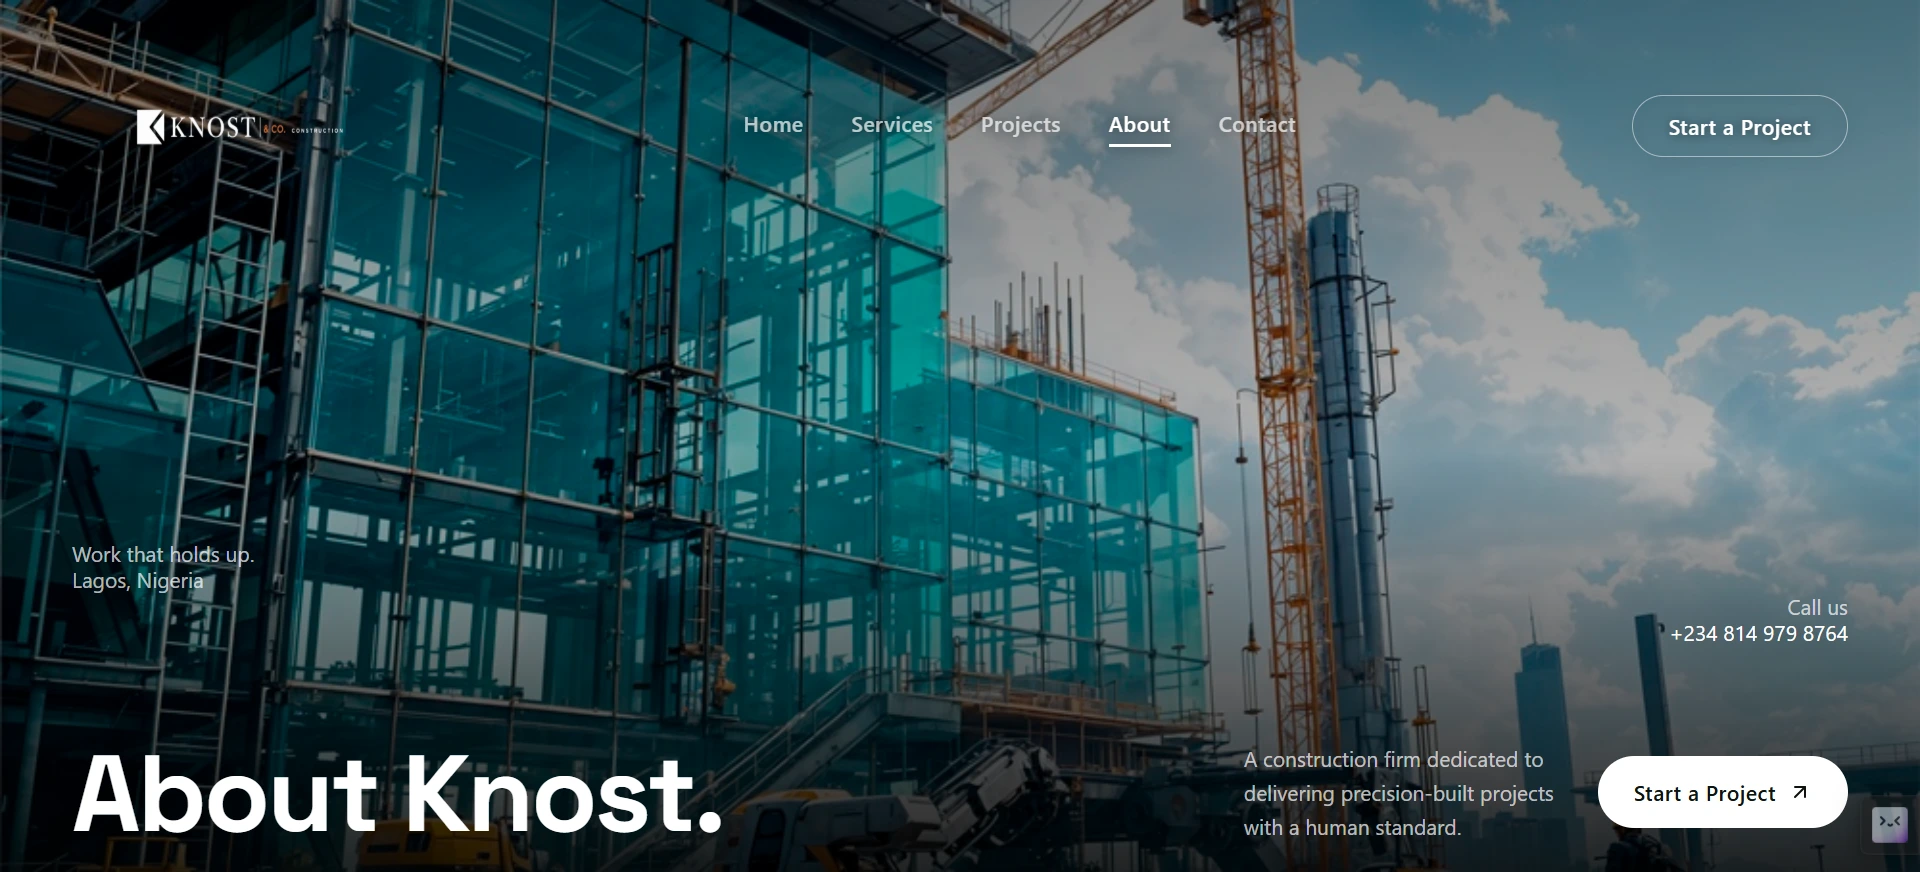
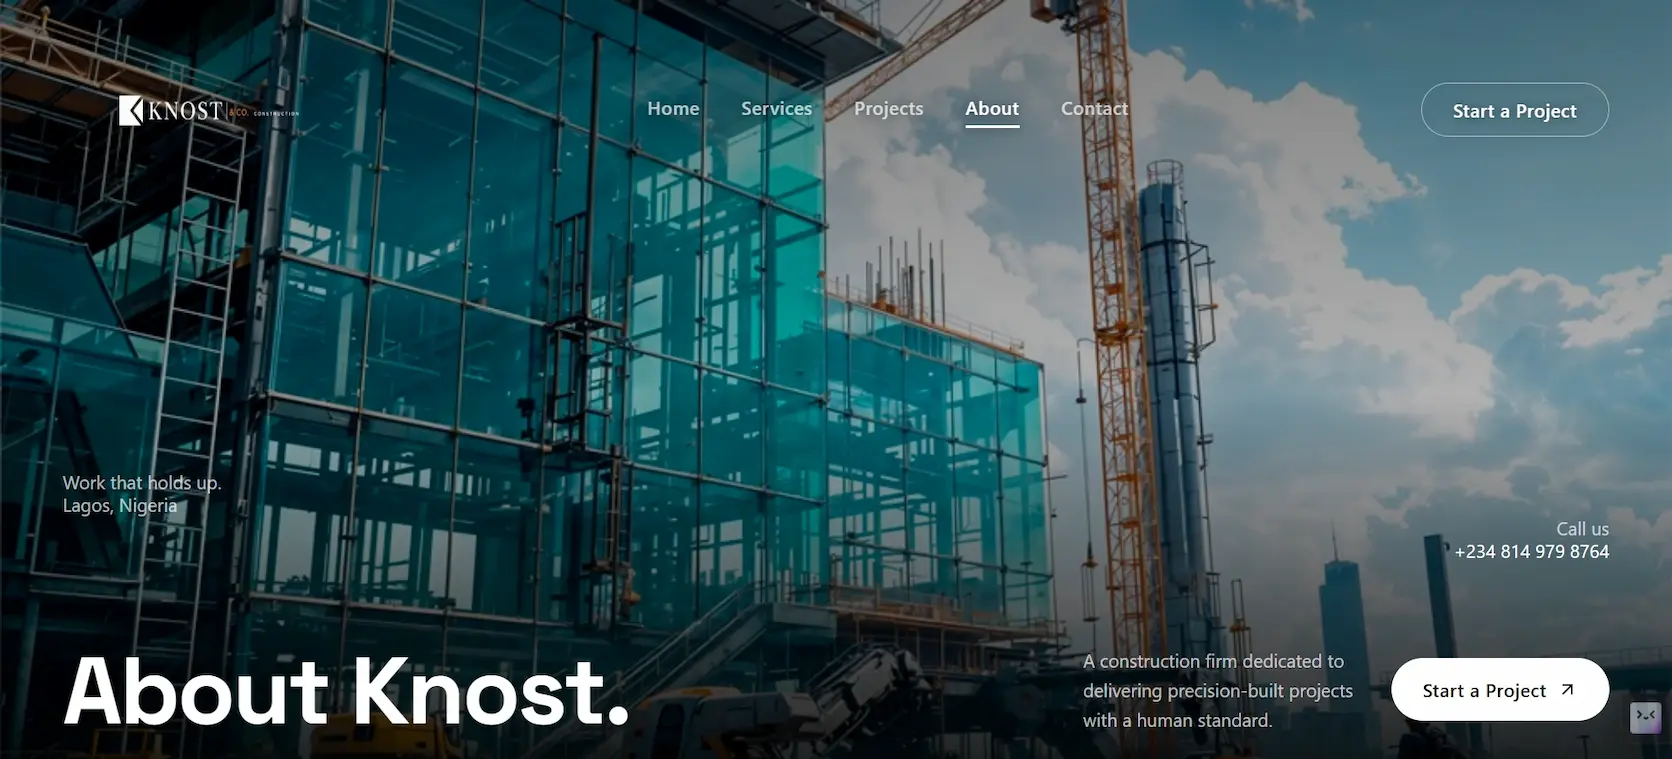
feat: accesibility and speed testing plus configuration for effective user experience

diff --git a/src/components/Navbar.tsx b/src/components/Navbar.tsx
@@ -1,4 +1,4 @@
-import { useEffect, useState } from "react";
+import { useEffect, useState, useRef } from "react";
 import { Link } from "react-router-dom";
 import { Menu, X } from "lucide-react";
 import { Container } from "./Container";
@@ -10,6 +10,8 @@ import { cn } from "../lib/cn";
 export function Navbar() {
   const [scrolled, setScrolled] = useState(false);
   const [open, setOpen] = useState(false);
+  const menuButtonRef = useRef<HTMLButtonElement>(null);
+  const firstLinkRef = useRef<HTMLAnchorElement>(null);
 
   useEffect(() => {
     const onScroll = () => setScrolled(window.scrollY > 8);
@@ -20,14 +22,23 @@ export function Navbar() {
 
   useEffect(() => {
     if (!open) return;
+
+    const behind = document.querySelectorAll("main, footer");
+    behind.forEach((el) => el.setAttribute("inert", ""));
+    document.body.style.overflow = "hidden";
+    firstLinkRef.current?.focus();
+
     const onKey = (e: KeyboardEvent) => {
       if (e.key === "Escape") setOpen(false);
     };
-    document.body.style.overflow = "hidden";
     window.addEventListener("keydown", onKey);
+
+    const button = menuButtonRef.current;
     return () => {
+      behind.forEach((el) => el.removeAttribute("inert"));
       document.body.style.overflow = "";
       window.removeEventListener("keydown", onKey);
+      button?.focus();
     };
   }, [open]);
 
@@ -84,6 +95,8 @@ export function Navbar() {
             aria-label={open ? "Close menu" : "Open menu"}
             aria-expanded={open}
             aria-controls="mobile-menu"
+            ref={menuButtonRef}
+
             onClick={() => setOpen((o) => !o)}
           >
             {open ? <X size={22} /> : <Menu size={22} />}
@@ -97,10 +110,11 @@ export function Navbar() {
           >
             <Container className="flex flex-col gap-2 py-8">
               <nav aria-label="Mobile" className="flex flex-col">
-                {navLinks.map((link) => (
+                {navLinks.map((link, index) => (
                   <Link
                     key={link.href}
                     to={link.href}
+                    ref={index === 0 ? firstLinkRef : undefined}
                     onClick={() => setOpen(false)}
                     className="border-b border-white/10 py-4 font-display text-2xl font-semibold"
                   >
@@ -109,10 +123,7 @@ export function Navbar() {
                 ))}
               </nav>
 
-              <Button
-                to="/start-project"
-                className="mt-8 w-full py-4"
-              >
+              <Button to="/start-project" className="mt-8 w-full py-4">
                 Start a project
               </Button>
 

diff --git a/src/components/Button.tsx b/src/components/Button.tsx
@@ -20,7 +20,8 @@ const variants = {
   // New solid dark variant for the light-background Work cards
   dark: "bg-[#051329] text-white hover:bg-blue",
   // New minimal border-style dark variant for secondary actions on light layouts
-  outlineDark: "border border-[#051329]/20 text-[#051329] hover:bg-[#051329] hover:text-white px-4 py-2 text-xs",
+  outlineDark:
+    "border border-[#051329]/20 text-[#051329] hover:bg-[#051329] hover:text-white px-4 py-2 text-xs",
 };
 
 export function Button({
@@ -50,6 +51,7 @@ export function Button({
         {...(external ? { target: "_blank", rel: "noopener noreferrer" } : {})}
       >
         {children}
+        {external && <span className="sr-only"> (opens in a new tab)</span>}
       </a>
     );
   }

diff --git a/src/App.tsx b/src/App.tsx
@@ -6,7 +6,6 @@ import { Navbar } from "./components/Navbar";
 import Home from "./pages/Home";
 import Legal from "./pages/Legal";
 import NotFound from "./pages/NotFound";
-import StartProject from "./pages/StartProject";
 
 function ScrollToHash() {
   const { pathname, hash } = useLocation();
@@ -39,7 +38,7 @@ export const routes: RouteRecord[] = [
     element: <Layout />,
     children: [
       { index: true, element: <Home /> },
-      { path: "start-project", element: <StartProject /> },
+      { path: "start-project", lazy: () => import("./pages/StartProject") },
       { path: "privacy", element: <Legal doc="privacy" /> },
       { path: "terms", element: <Legal doc="terms" /> },
       { path: "404", element: <NotFound /> },

diff --git a/src/components/ContactForm.tsx b/src/components/ContactForm.tsx
@@ -283,6 +283,7 @@ export function ContactForm() {
 
   return (
     <form onSubmit={onSubmit} noValidate className="space-y-8">
+      <p className="text-sm text-slate">All fields are required.</p>
       <Field id="name" label="Your name or company name" error={errors.name}>
         <input
           id="name"
@@ -292,6 +293,7 @@ export function ContactForm() {
           onChange={onText("name")}
           aria-invalid={!!errors.name}
           aria-describedby={describe("name", false, errors.name)}
+          autoComplete="name"
           className={cn(
             inputBase,
             errors.name ? "border-danger" : "border-white/20",

diff --git a/src/data/legal.ts b/src/data/legal.ts
@@ -55,7 +55,6 @@ export const legal: Record<"privacy" | "terms", LegalDoc> = {
           "EmailJS: delivers your quote request to our email inbox.",
           "Google (Gmail): where we receive and store those emails.",
           "Vercel: hosts this website and may keep technical logs.",
-          "Google Fonts: when you open the site, your browser requests fonts from Google, which means your IP address is shared with Google.",
           "WhatsApp (Meta): if you choose to message us on WhatsApp, your conversation is handled under WhatsApp’s own privacy policy.",
         ],
       },

diff --git a/index.html b/index.html
@@ -5,12 +5,6 @@
     <meta name="viewport" content="width=device-width, initial-scale=1.0" />
     <meta name="theme-color" content="#050B14" />
     <link rel="icon" type="image/png" href="/trilot.png" />
-    <link rel="preconnect" href="https://fonts.googleapis.com" />
-    <link rel="preconnect" href="https://fonts.gstatic.com" crossorigin />
-    <link
-      href="https://fonts.googleapis.com/css2?family=Bricolage+Grotesque:opsz,wght@12..96,500..700&family=Manrope:wght@400..700&display=swap"
-      rel="stylesheet"
-    />
   </head>
   <body>
     <div id="root"></div>

diff --git a/src/components/Work.tsx b/src/components/Work.tsx
@@ -21,7 +21,7 @@ function LiveLink({
   return (
     <Button href={project.liveUrl} variant={variant} className="px-5 py-3">
       View live site
-      <span className="sr-only">: {project.name}, opens in a new tab</span>
+      <span className="sr-only">: {project.name}</span>
       <ArrowUpRight size={16} aria-hidden="true" />
     </Button>
   );

diff --git a/src/index.css b/src/index.css
@@ -12,8 +12,8 @@
   --color-paper: #f3f6fa;
   --color-danger: #ff8f8f;
 
-  --font-display: "Bricolage Grotesque", system-ui, sans-serif;
-  --font-body: "Manrope", system-ui, sans-serif;
+  --font-display: "Bricolage Grotesque Variable", system-ui, sans-serif;
+  --font-body: "Manrope Variable", system-ui, sans-serif;
 
   --radius-base: 0.5rem;
 }

diff --git a/src/components/Hero.tsx b/src/components/Hero.tsx
@@ -23,7 +23,9 @@ export function Hero() {
     >
       {/* Background image */}
       <img
-        src="/assets/hero3.png"
+        src="/assets/hero3.webp"
+        srcSet="/assets/hero-800.webp 800w, /assets/hero3.webp 1672w"
+        sizes="100vw"
         alt=""
         width={1672}
         height={941}

diff --git a/src/components/Faq.tsx b/src/components/Faq.tsx
@@ -16,7 +16,7 @@ export function Faq() {
           id="faq-heading"
           className="mt-4 max-w-3xl text-4xl font-semibold md:text-5xl"
         >
-          Common questions, direct answers
+          Frequently Asked Questions
           <span className="text-blue">.</span>
         </h2>
 

diff --git a/src/main.tsx b/src/main.tsx
@@ -1,5 +1,7 @@
 import { ViteReactSSG } from "vite-react-ssg";
 import { routes } from "./App";
+import "@fontsource-variable/manrope";
+import "@fontsource-variable/bricolage-grotesque";
 import "./index.css";
 
 export const createRoot = ViteReactSSG({ routes });

diff --git a/src/components/Seo.tsx b/src/components/Seo.tsx
@@ -14,7 +14,7 @@ export function Seo({
   title,
   description,
   path = "/",
-  image = "/og/home.png",
+  image = "/og/home.jpg",
   noindex = false,
   jsonLd,
 }: SeoProps) {
